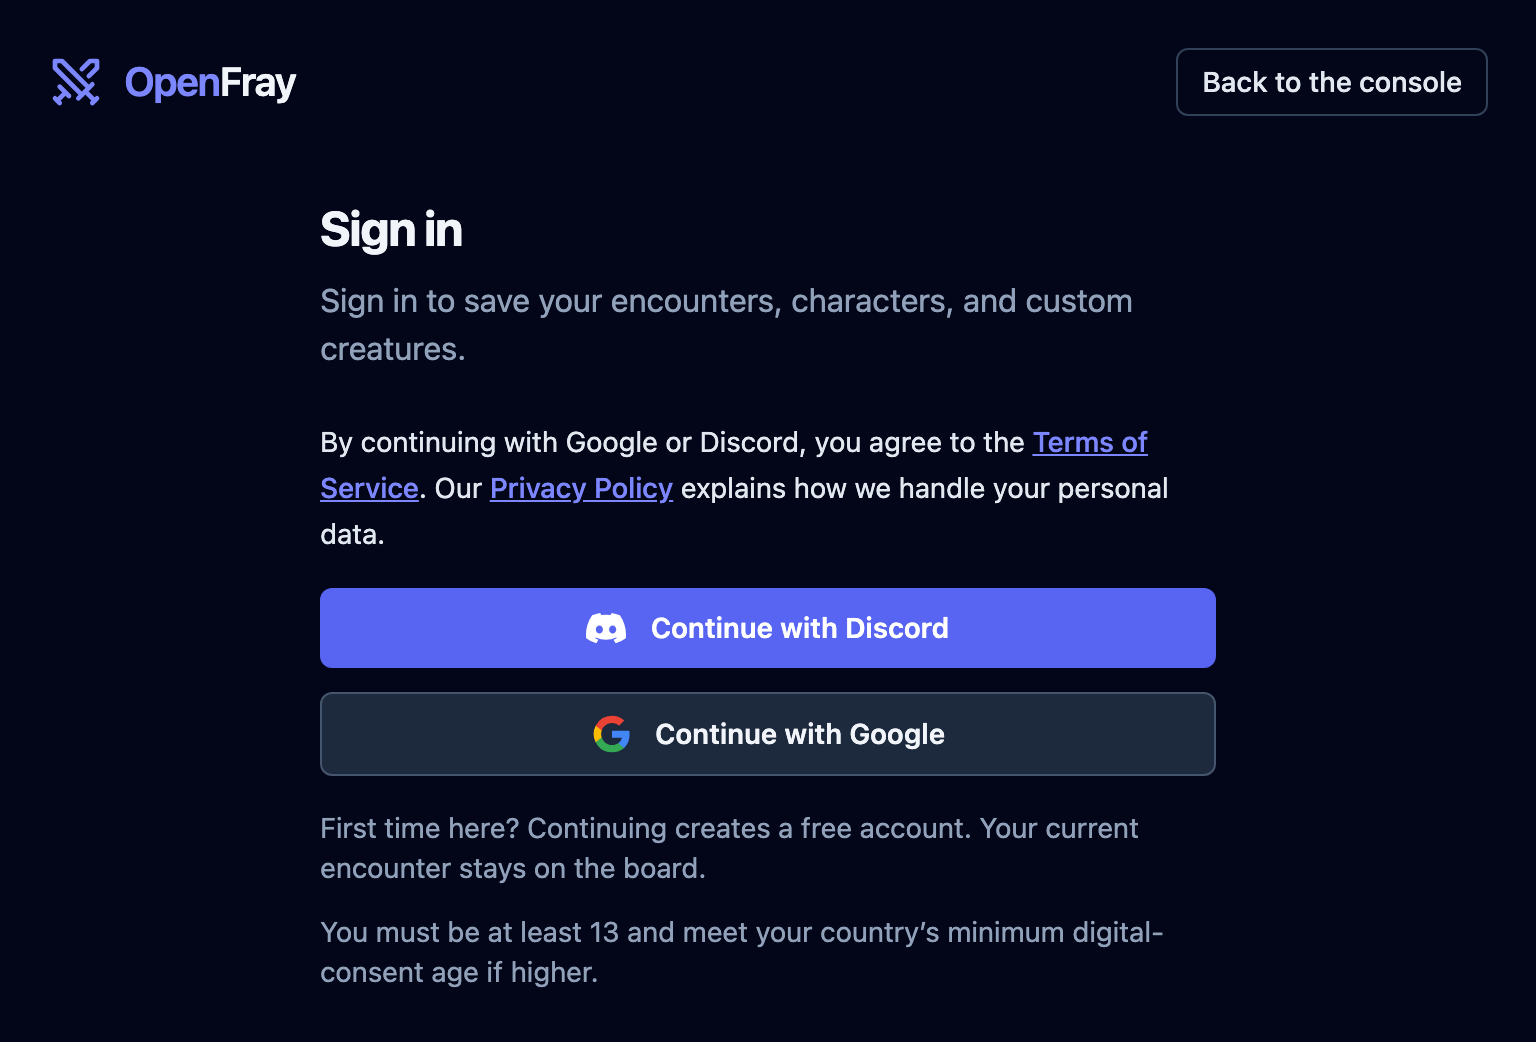
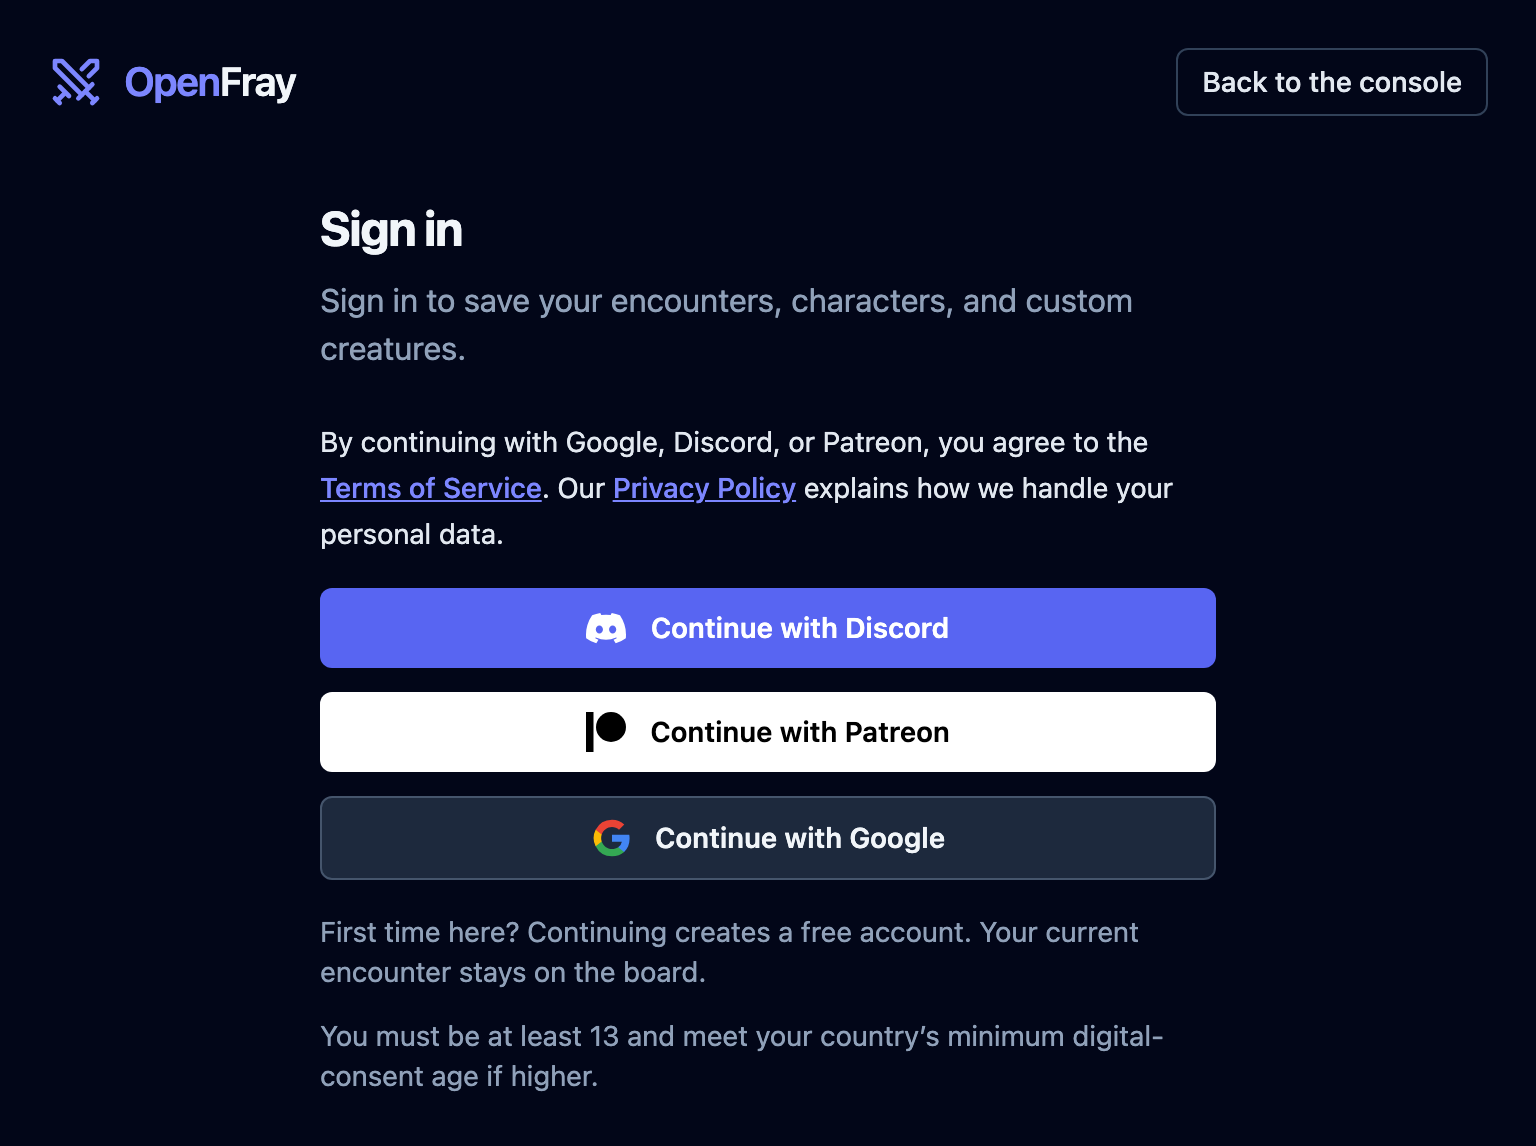
Docs: Add Patreon sign-in to the handbook

diff --git a/src/content/docs/concepts/account.md b/src/content/docs/concepts/account.md
@@ -38,28 +38,28 @@ belong to the browser rather than to you, so another computer starts fresh.
 
 ## Signing in
 
-Click **Sign in** in the console’s header, then **Continue with Discord** or
-**Continue with Google**. The provider opens so you can sign in. Your first sign-in
+Click **Sign in** in the console’s header, then **Continue with Discord**,
+**Continue with Google**, or **Continue with Patreon**. The provider opens so you can sign in. Your first sign-in
 creates a free account, and your current encounter stays on the board.
 
-By continuing with either provider, you agree to the
+By continuing with a provider, you agree to the
 [Terms of Service](https://openfray.app/terms/). The
 [Privacy Policy](https://openfray.app/privacy/) explains how your personal data is handled.
 The notice appears beside the provider buttons; there is no checkbox. You must be at least
 13 and meet your country’s minimum digital-consent age if higher.
 
-![The sign-in page with Google and Discord buttons and the Terms notice.](../../../assets/screens/sign-in.png)
+![The sign-in page with Google, Discord, and Patreon buttons and the Terms notice.](../../../assets/screens/sign-in.png)
 
 From then on, these follow you between devices:
 
-| What                              | Why you'd want it                                                                 |
-| --------------------------------- | --------------------------------------------------------------------------------- |
-| **The fight you're running**      | close the laptop mid-session, pick it up next week exactly where you left off     |
-| **Creatures and spells you make** | your homebrew and imports, in your own library                                    |
-| **Characters**                    | build the party once instead of retyping them each session                        |
-| **Campaigns**                     | your table's [house rules](/docs/guides/campaigns/) and private notes on the game |
-| **Your player-view link**         | name it something your table remembers, and keep it between sessions              |
-| **Saved fights**                  | keep a board [as it stands](/docs/guides/saving/) and come back to it             |
+| What                              | Why you'd want it                                                                    |
+| --------------------------------- | ------------------------------------------------------------------------------------ |
+| **The fight you're running**      | close the laptop mid-session, pick it up next week exactly where you left off        |
+| **Creatures and spells you make** | your homebrew and imports, in your own library                                       |
+| **Characters**                    | build the party once instead of retyping them each session                           |
+| **Campaigns**                     | your table's [house rules](/docs/guides/campaigns/) and private notes on the game    |
+| **Your player-view link**         | name it something your table remembers, and keep it between sessions                 |
+| **Saved fights**                  | keep a board [as it stands](/docs/guides/saving/) and come back to it                |
 | **What you've published**         | the [links you've handed out](/docs/guides/publishing/), and a way to take them down |
 
 Saving happens in the background while you play. You never wait for it, and there's no
@@ -76,7 +76,7 @@ place. Anyone holding the old one is left behind. See
 ## Your profile
 
 Click your **account**, then **Profile**. It shows the email you signed in with and how
-(Google or Discord; OpenFray never sees your password either way), and holds two
+(Google, Discord, or Patreon; OpenFray never sees your password), and holds two
 settings beyond deleting the account, covered next.
 
 ![The Profile panel: the signed-in email and provider, the display name field holding a
@@ -101,5 +101,5 @@ type your email to confirm.
 
 :::danger[Deleting is permanent]
 Deleting your account cannot be undone, and nothing is kept. If you sign back in later
-with the same Google or Discord account, a fresh account is created.
+with the same Google, Discord, or Patreon account, a fresh account is created.
 :::

diff --git a/src/content/docs/concepts/combatants.md b/src/content/docs/concepts/combatants.md
@@ -43,7 +43,7 @@ OpenFray never rolls for a player on its own. Wherever it would roll for a creat
 type in what the player rolled instead, or choose to let OpenFray roll for them. See
 [Honest dice](/docs/concepts/dice/).
 
-When you sign in with your Google or Discord account, you can save your player
+When you sign in with your Google, Discord, or Patreon account, you can save your player
 characters and add them from the compendium instead:
 
 ![The Add PC button outlined in red, with the signed-in picker open, showing a search over saved characters and a Create a character link.](../../../assets/screens/add-pc-dropdown-signedin.png)

diff --git a/src/content/docs/guides/campaigns.md b/src/content/docs/guides/campaigns.md
@@ -18,7 +18,7 @@ disadvantage, creatures join with average hit points, initiative ties go to the 
 Dexterity, and the party levels by experience points.
 
 :::note[Needs an account]
-Creating and using a campaign requires signing in with a free Google or Discord account.
+Creating and using a campaign requires signing in with a free Google, Discord, or Patreon account.
 Without an account OpenFray uses the default rules.
 :::
 

diff --git a/src/content/docs/guides/effects.md b/src/content/docs/guides/effects.md
@@ -163,7 +163,7 @@ Read any preset in full on the compendium's **Effects** tab. See
 [The compendium](/docs/reference/compendium/#effects).
 
 :::note[Needs an account]
-Saving your own presets requires signing in with a free Google or Discord account. A
+Saving your own presets requires signing in with a free Google, Discord, or Patreon account. A
 library's presets work for everyone who has the library turned on.
 :::
 

diff --git a/src/content/docs/getting-started.md b/src/content/docs/getting-started.md
@@ -115,7 +115,7 @@ Saving happens in the background while you play; there is no save button. Nothin
 did before signing in is lost when you sign in.
 
 :::note[Accounts are optional]
-Signing in with an account is entirely optional and **free**, via Google or Discord.
+Signing in with an account is entirely optional and **free**, via Google, Discord, or Patreon.
 Everything above works without an account.
 :::
 

diff --git a/src/content/docs/reference/compendium.md b/src/content/docs/reference/compendium.md
@@ -53,7 +53,7 @@ party stays recognizable when you run more than one game. Click **Add to encount
 put a character straight on the tracker.
 
 :::note[Needs an account]
-Saving and reusing player characters requires signing in with a free Google or Discord
+Saving and reusing player characters requires signing in with a free Google, Discord, or Patreon
 account.
 :::
 

diff --git a/src/content/docs/guides/making-your-own.md b/src/content/docs/guides/making-your-own.md
@@ -17,7 +17,7 @@ use the create button.
 
 :::note[Needs an account]
 Homebrew creations are stored in your account. Creating them requires signing in with a
-free Google or Discord account.
+free Google, Discord, or Patreon account.
 :::
 
 ## Starting from one that exists
